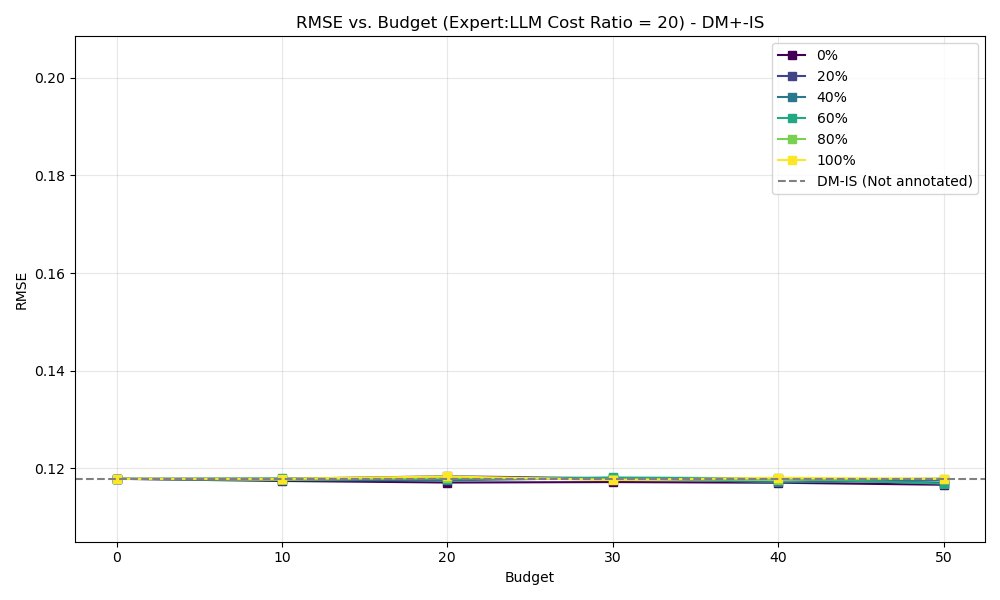
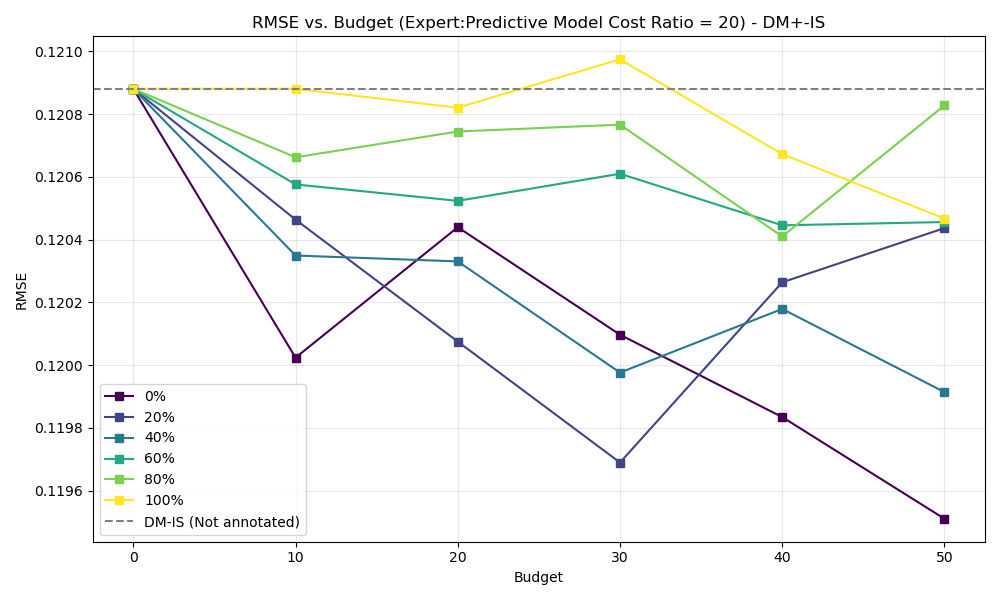
reword LLM & comment out plt.ylim

diff --git a/final_report_graphs.py b/final_report_graphs.py
@@ -5,7 +5,7 @@ from tqdm import tqdm
 from two_state import *
 from trajectory_classes import *
 
-NUM_DATASETS = 1000  # Large number for better RMSE estimate
+NUM_DATASETS = 2000  # Large number for better RMSE estimate
 TRAJECTORIES_PER_DATASET = 50
 
 def generate_requested_graphs():
@@ -120,20 +120,20 @@ def generate_requested_graphs():
     
     # Plot all figures with consistent y-axis scaling
     plot_results(rmse_vs_budget_ratio10, budgets, expert_allocations, baseline_IS_rmse,
-                "RMSE vs. Budget (Expert:LLM Cost Ratio = 10)", 
+                "RMSE vs. Budget (Expert:Predictive Model Cost Ratio = 10)", 
                 "Budget", "fig1")
     
     plot_results(rmse_vs_budget_ratio20, budgets, expert_allocations, baseline_IS_rmse,
-                "RMSE vs. Budget (Expert:LLM Cost Ratio = 20)", 
+                "RMSE vs. Budget (Expert:Predictive Model Cost Ratio = 20)", 
                 "Budget", "fig2")
     
     plot_results(rmse_vs_ratio_budget20, cost_ratios, expert_allocations, baseline_IS_rmse,
                 "RMSE vs. Cost Ratio (Budget = 20)", 
-                "Expert:LLM Cost Ratio", "fig3")
+                "Expert:Predictive Model Cost Ratio", "fig3")
     
     plot_results(rmse_vs_ratio_budget40, cost_ratios, expert_allocations, baseline_IS_rmse,
                 "RMSE vs. Cost Ratio (Budget = 40)", 
-                "Expert:LLM Cost Ratio", "fig4")
+                "Expert:Predictive Model Cost Ratio", "fig4")
     
     print("\nAll graphs generated!")
 
@@ -306,7 +306,7 @@ def plot_results(results, x_values, expert_allocations, baseline_IS_rmse,
     plt.title(f"{title_base} - Both Methods")
     plt.xlabel(x_label)
     plt.ylabel("RMSE")
-    plt.ylim(min_rmse, max_rmse)
+    # plt.ylim(min_rmse, max_rmse)
     plt.grid(True, alpha=0.3)
     plt.legend(bbox_to_anchor=(1.05, 1), loc='upper left')
     plt.tight_layout()
@@ -327,7 +327,7 @@ def plot_results(results, x_values, expert_allocations, baseline_IS_rmse,
     plt.title(f"{title_base} - IS+")
     plt.xlabel(x_label)
     plt.ylabel("RMSE")
-    plt.ylim(min_rmse, max_rmse)
+    # plt.ylim(min_rmse, max_rmse)
     plt.grid(True, alpha=0.3)
     plt.legend()
     plt.tight_layout()
@@ -351,7 +351,7 @@ def plot_results(results, x_values, expert_allocations, baseline_IS_rmse,
     plt.title(f"{title_base} - DM+-IS")
     plt.xlabel(x_label)
     plt.ylabel("RMSE")
-    plt.ylim(min_rmse, max_rmse)
+    # plt.ylim(min_rmse, max_rmse)
     plt.grid(True, alpha=0.3)
     plt.legend()
     plt.tight_layout()
